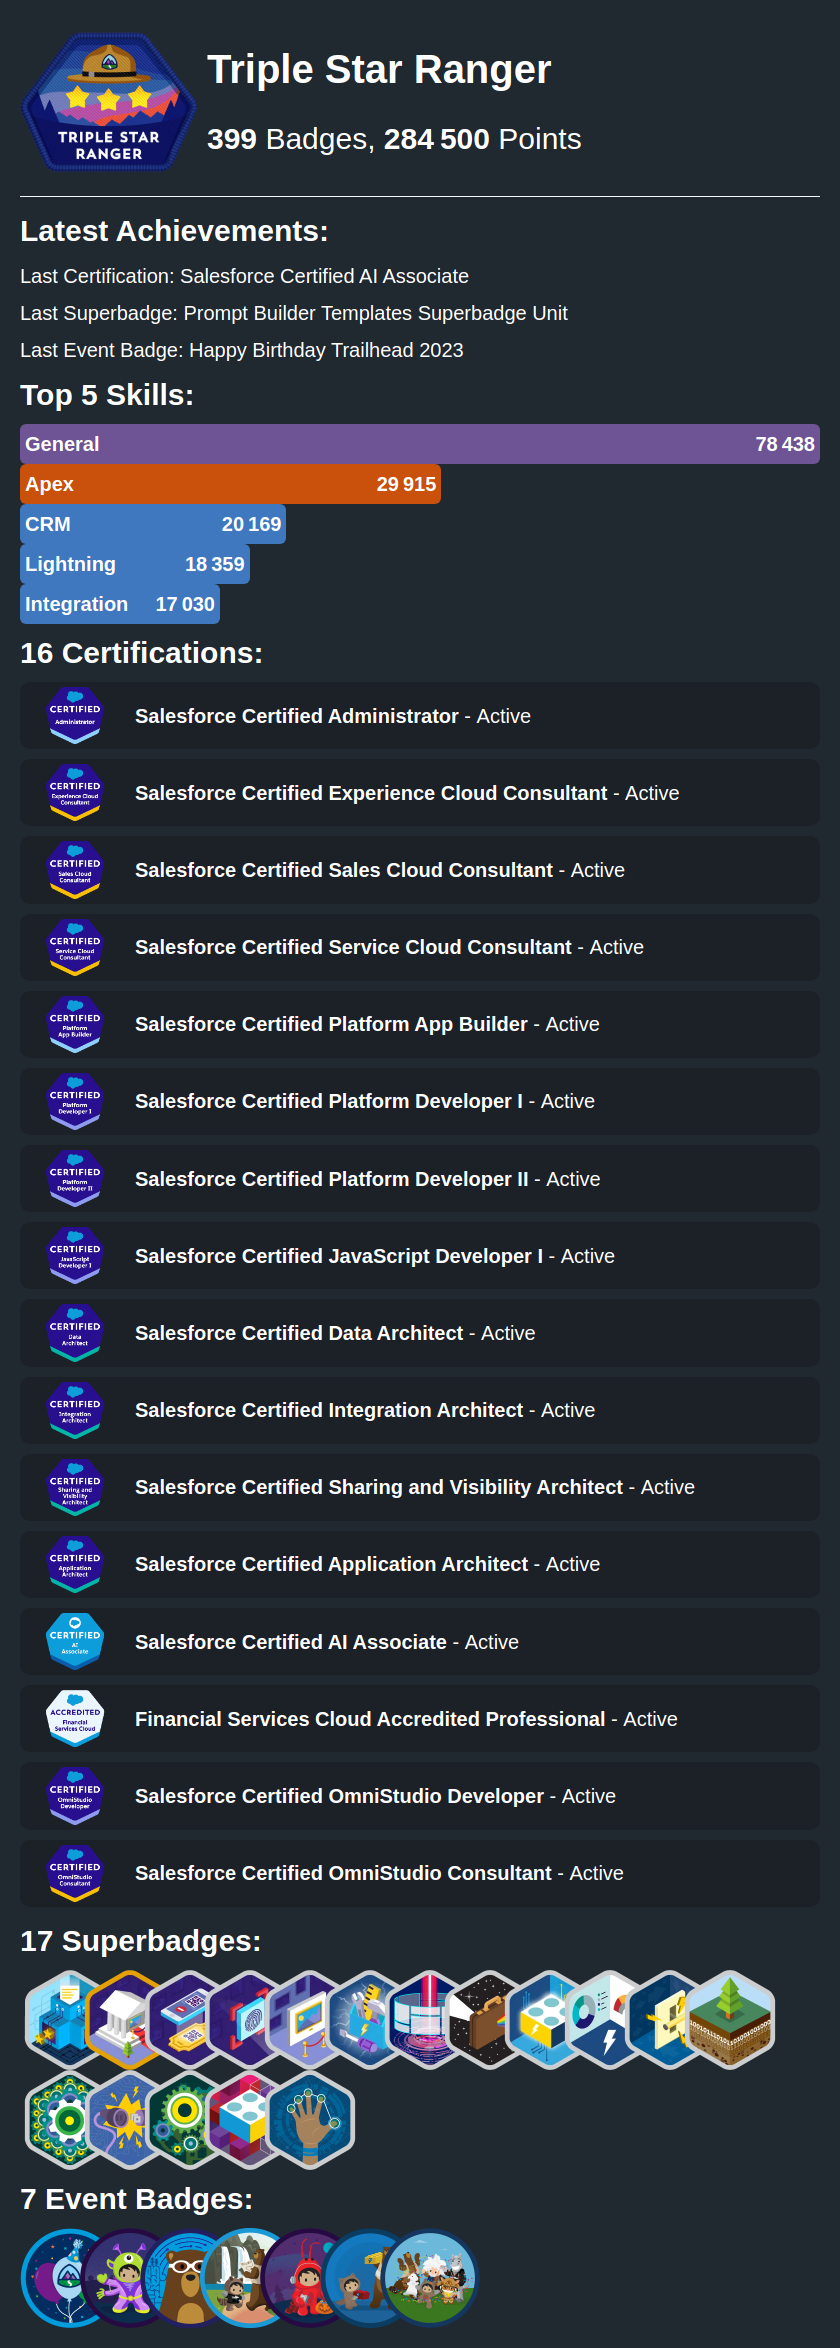
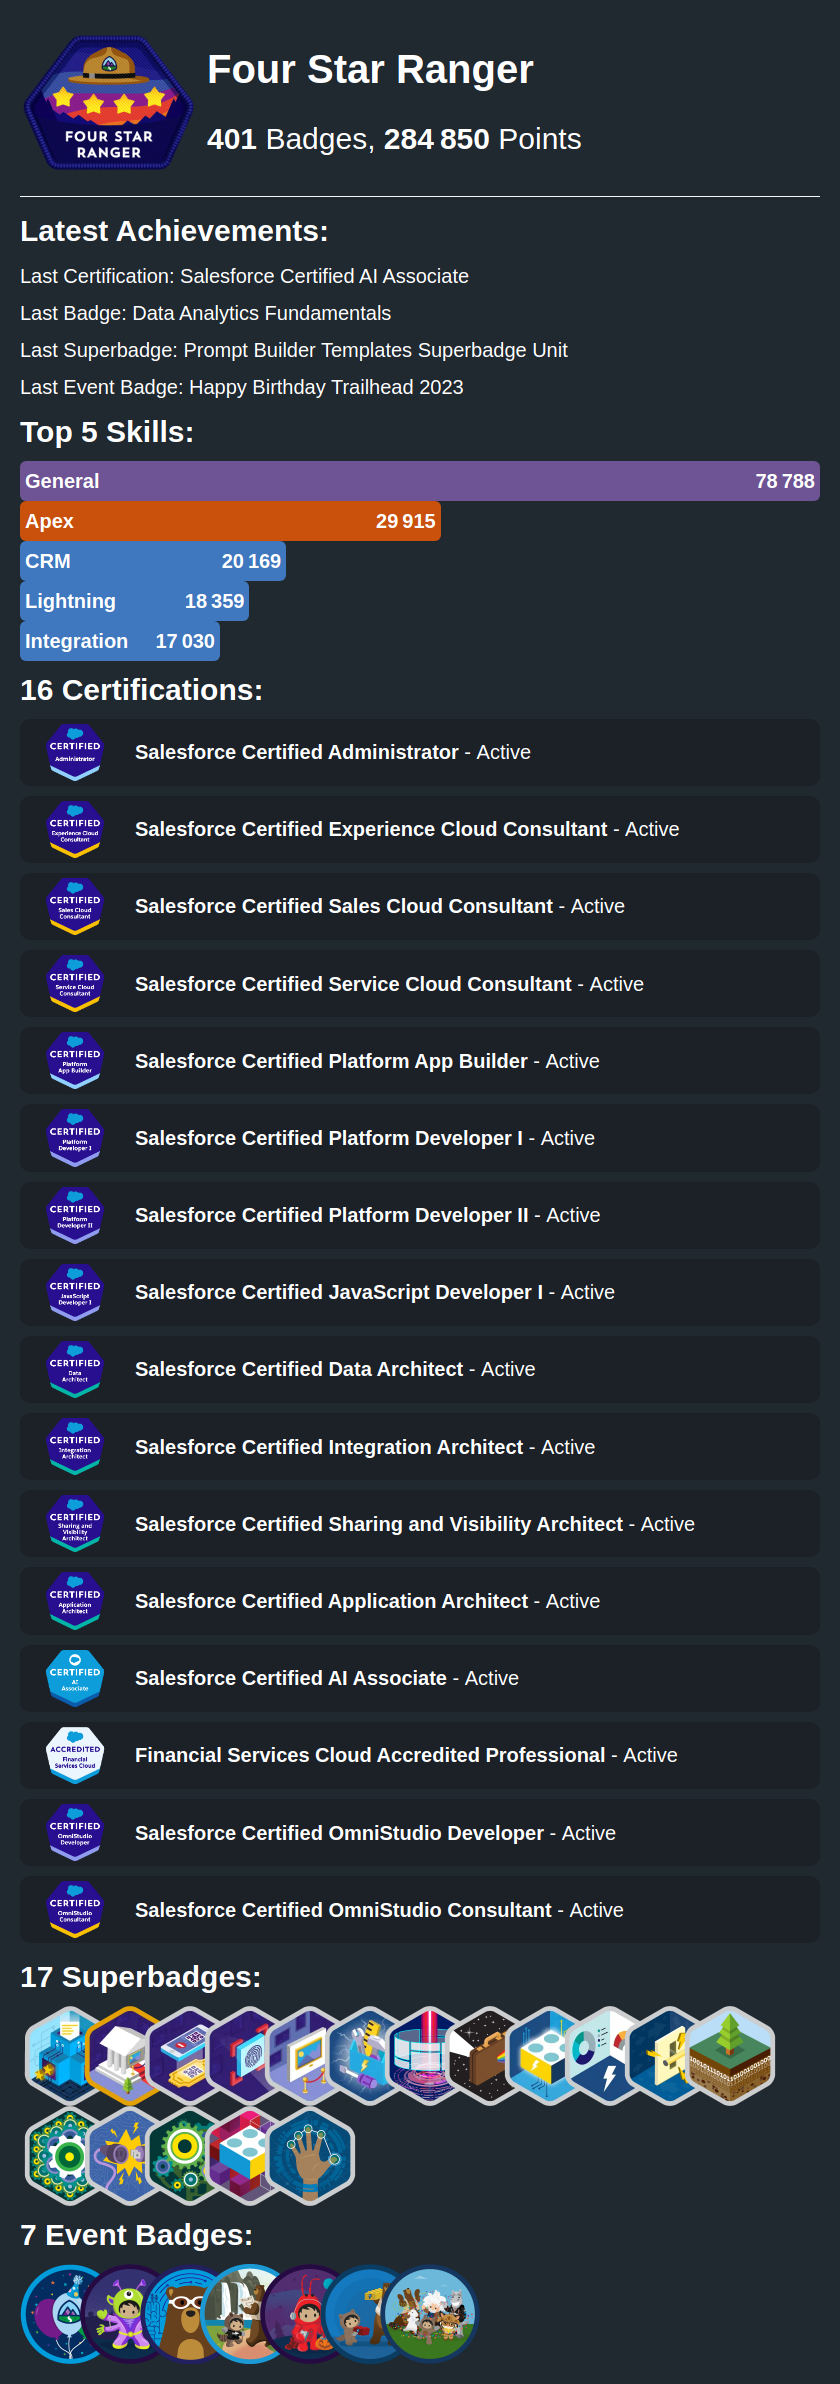
Update Trailhead Stats in README.md

diff --git a/README.md b/README.md
@@ -16,5 +16,12 @@ Here are some ideas to get you started:
 -->
 
 <!--TH_Stats:start-->
-undefined
+
+<a href="https://www.salesforce.com/trailblazer/paoneraju">
+<picture>
+    <source media="(prefers-color-scheme: light)" srcset="TS-cards/TScard-light.png">
+    <source media="(prefers-color-scheme: dark)" srcset="TS-cards/TScard-dark.png">
+    <img alt="Shows the Trailhead Stats card in either light or dark theme." src="TS-cards/TScard-light.png">
+</picture>
+</a>
 <!--TH_Stats:end-->
